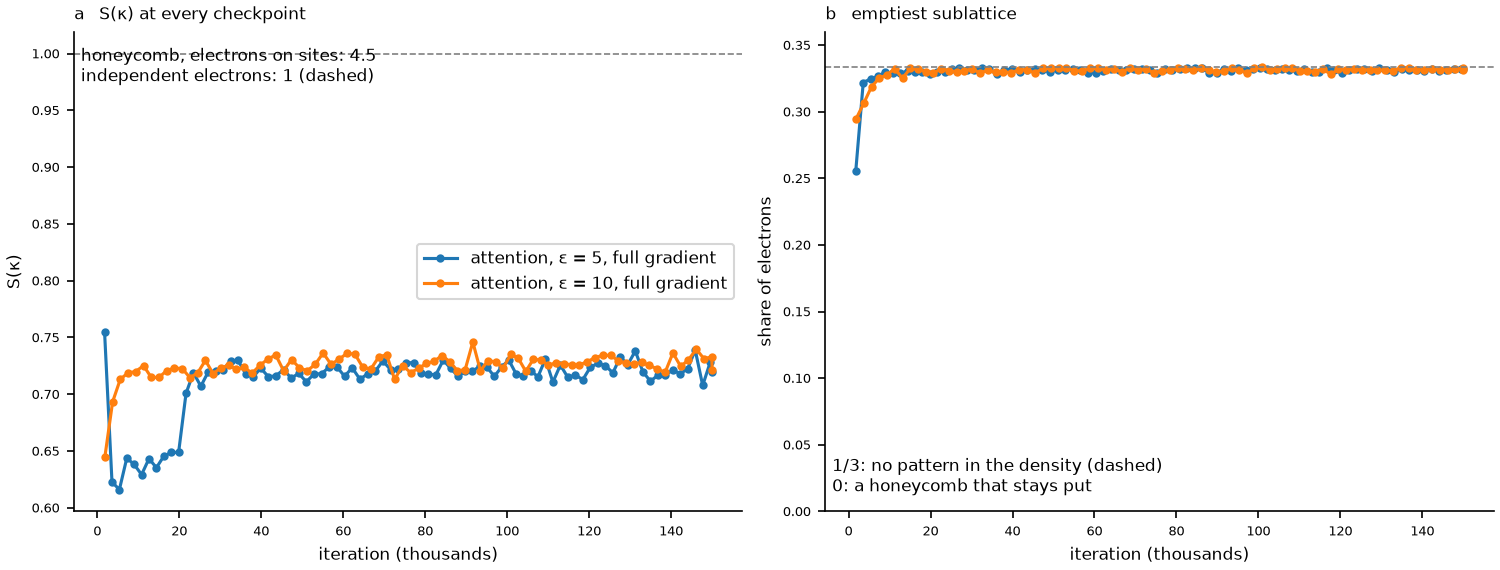
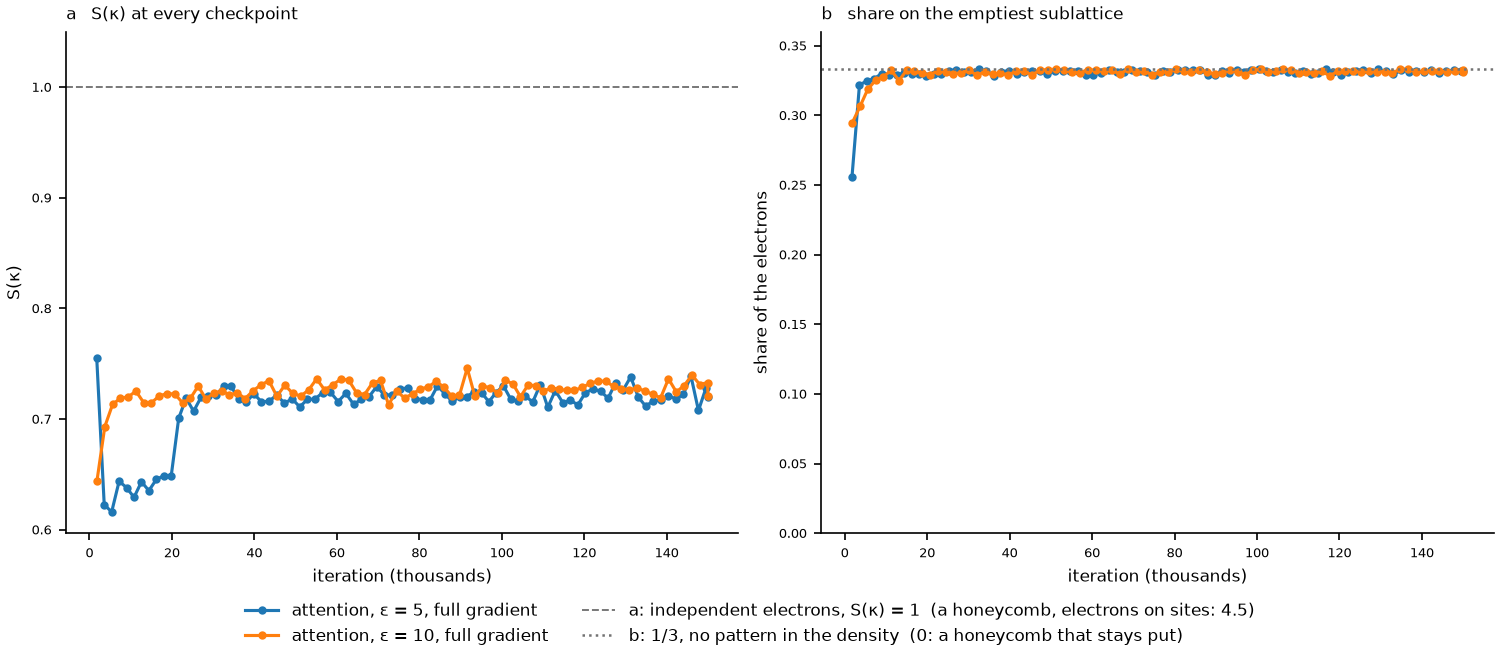
checkpoint_structure.py: reference lines in a legend below the panels
The reference text in panel a lay on its dashed line, and the legend sat where rising S(kappa)
values would be drawn.  Both references are now legend entries below the panels, and panel a's
upper limit grows with the data.  Re-run on the full-gradient attention runs: both
checkpoint_structure_*.csv byte-identical; only the figure changed.

diff --git a/learn/stage08_own_code/analysis/18_electrons_27_sites/checkpoint_structure.py b/learn/stage08_own_code/analysis/18_electrons_27_sites/checkpoint_structure.py
@@ -133,7 +133,7 @@ def main():
     self_check(geo)
     print("self-check passed: honeycombs 4.5, even filling 0")
 
-    fig, (ax_s, ax_share) = plt.subplots(1, 2, figsize=(10, 3.8), layout="constrained")
+    fig, (ax_s, ax_share) = plt.subplots(1, 2, figsize=(10, 4.4), layout="constrained")
     for run in runs:
         settings = json.loads((run / "settings.json").read_text())
         assert settings["electrons"] == N, f"{run}: not an 18-electron run"
@@ -156,17 +156,19 @@ def main():
         line, = ax_s.plot(it, [r["S_kappa"] for r in rows], marker=".", label=label)
         ax_share.plot(it, [min(r["sublattice_0"], r["sublattice_1"], r["sublattice_2"]) for r in rows],
                       marker=".", color=line.get_color())
-    ax_s.axhline(1.0, color="0.5", ls="--", lw=0.8)
-    ax_s.text(0.01, 0.97, "honeycomb, electrons on sites: 4.5\nindependent electrons: 1 (dashed)",
-              transform=ax_s.transAxes, va="top", fontsize=8)
+    # The reference lines go into the legend below the panels, so nothing is drawn over the data.
+    lines = list(ax_s.get_lines())
+    highest = max(max(line.get_ydata()) for line in lines)
+    lines.append(ax_s.axhline(1.0, color="0.45", ls="--", lw=0.9,
+                              label="a: independent electrons, S(κ) = 1  (a honeycomb, electrons on sites: 4.5)"))
+    lines.append(ax_share.axhline(1 / 3, color="0.45", ls=":", lw=1.2,
+                                  label="b: 1/3, no pattern in the density  (0: a honeycomb that stays put)"))
+    ax_s.set_ylim(top=max(1.05, 1.05 * highest))
     ax_s.set(xlabel="iteration (thousands)", ylabel="S(κ)", title="a   S(κ) at every checkpoint")
-    ax_share.axhline(1 / 3, color="0.5", ls="--", lw=0.8)
     ax_share.set_ylim(0, 0.36)
-    ax_share.text(0.01, 0.03, "1/3: no pattern in the density (dashed)\n0: a honeycomb that stays put",
-                  transform=ax_share.transAxes, va="bottom", fontsize=8)
-    ax_share.set(xlabel="iteration (thousands)", ylabel="share of electrons",
-                 title="b   emptiest sublattice")
-    ax_s.legend(fontsize=8, loc="center right")
+    ax_share.set(xlabel="iteration (thousands)", ylabel="share of the electrons",
+                 title="b   share on the emptiest sublattice")
+    fig.legend(handles=lines, loc="outside lower center", ncol=2, fontsize=8, frameon=False)
     figure = runs[0].parent.parent / "figures" / "checkpoint_structure.png"
     figure.parent.mkdir(exist_ok=True)
     fig.savefig(figure, dpi=150)
